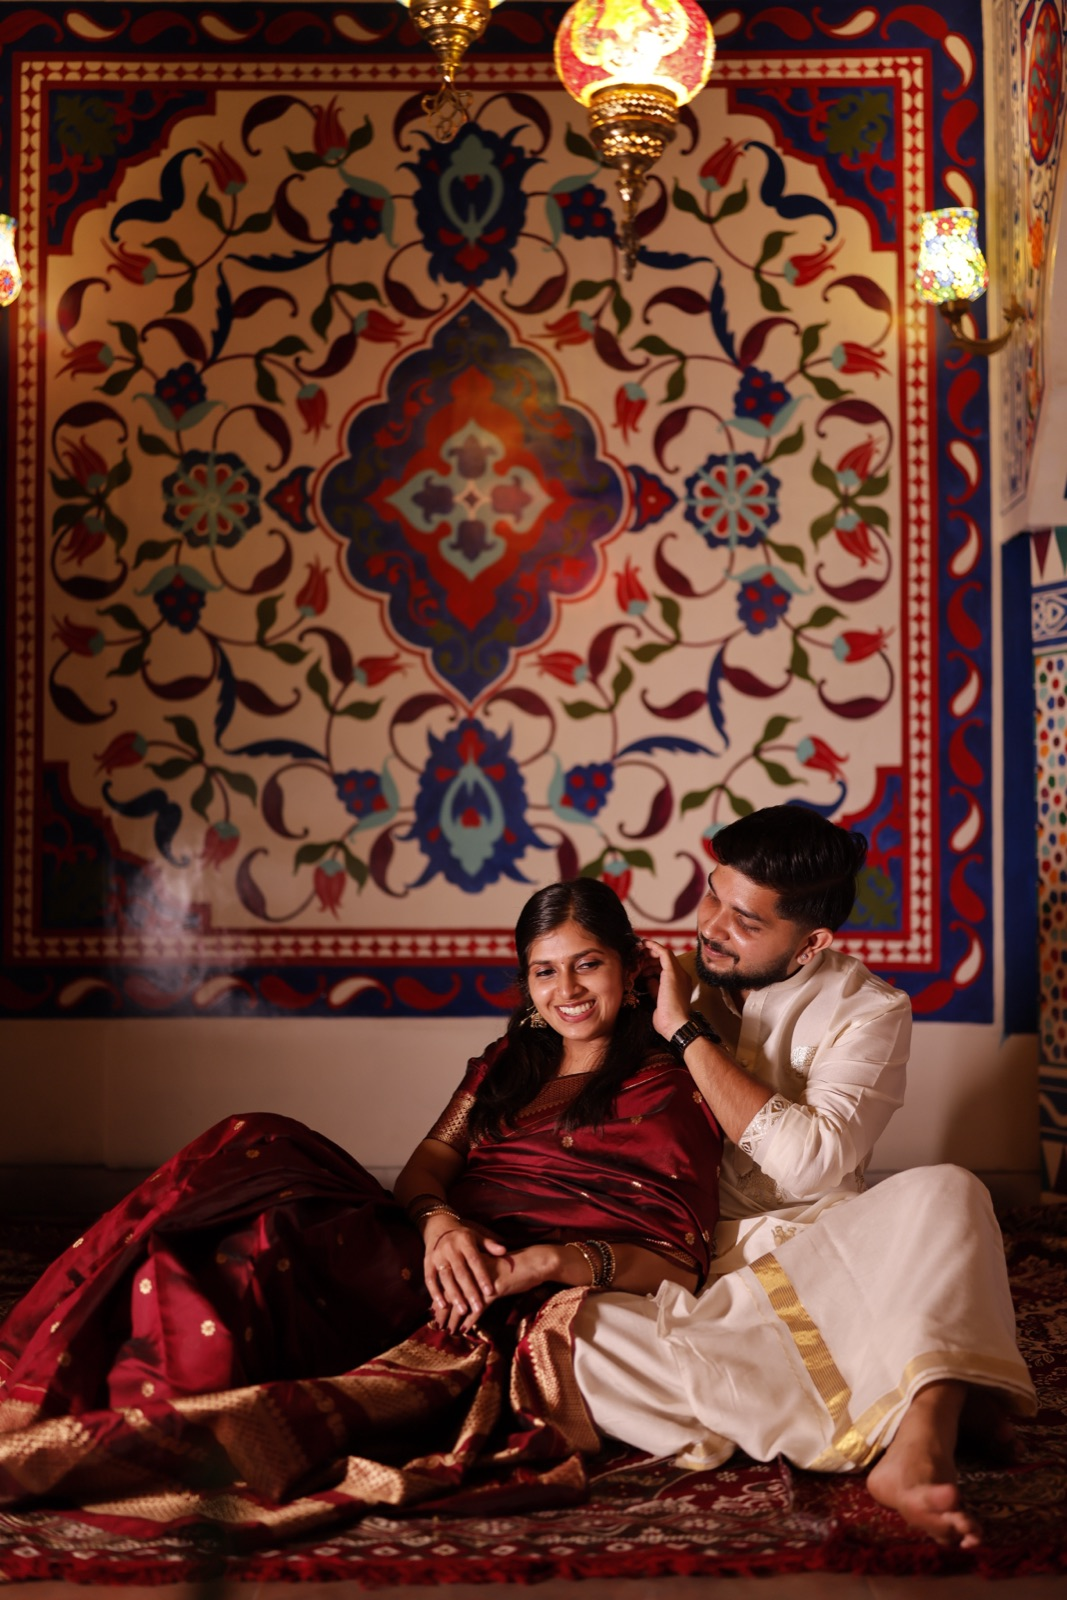
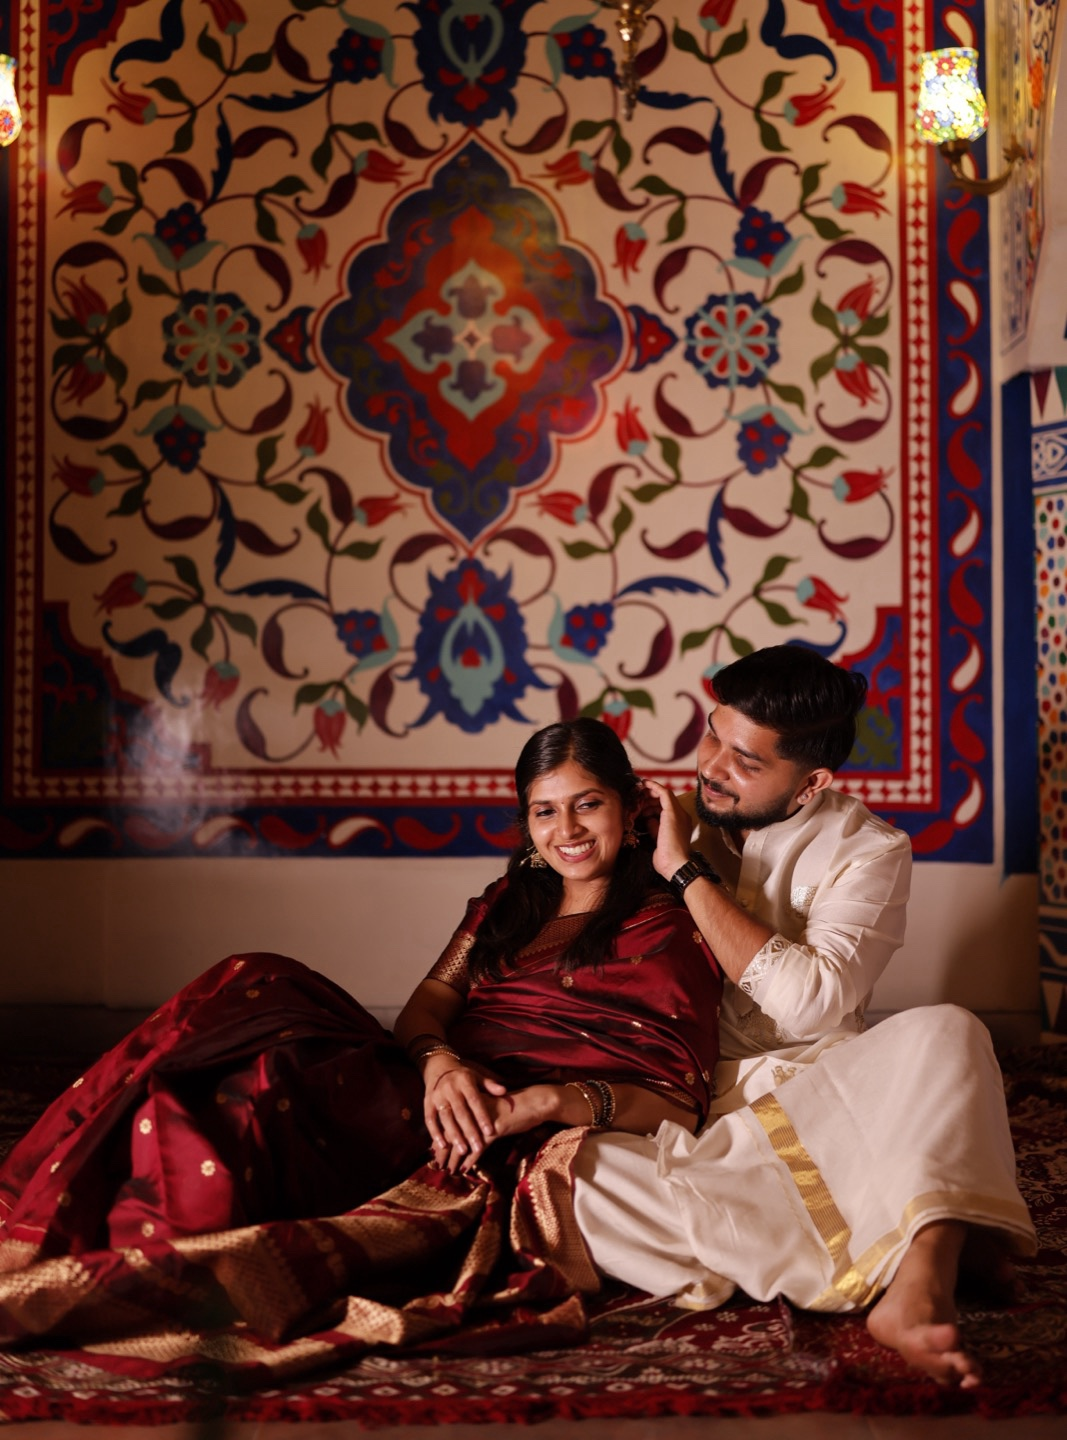
Polish Vasudevan–Athira invite: crop gallery photos and add cinematic grade.

diff --git a/frontend/app/vasudevan-athira/page.tsx b/frontend/app/vasudevan-athira/page.tsx
@@ -100,19 +100,19 @@ const gallery = [
     src: "/vasudevan/web/04-lantern.jpg",
     alt: "Vasudevan and Athira under warm lantern light",
     width: 1067,
-    height: 1600,
+    height: 1440,
   },
   {
     src: "/vasudevan/web/06-close.jpg",
     alt: "Vasudevan and Athira in a close embrace",
     width: 1067,
-    height: 1600,
+    height: 1440,
   },
   {
     src: "/vasudevan/web/05-veena.jpg",
     alt: "Vasudevan and Athira with a veena and mirror",
     width: 1067,
-    height: 1600,
+    height: 1440,
   },
   {
     src: "/vasudevan/web/07-glow.jpg",
@@ -145,17 +145,40 @@ export default function VasudevanAthiraInvitation() {
         .va-fade-later { animation: va-fade-up 1.1s cubic-bezier(0.22, 1, 0.36, 1) 0.36s both; }
         .va-rise { animation: va-soft-rise 1.25s cubic-bezier(0.22, 1, 0.36, 1) 0.2s both; }
         .va-line { transform-origin: center; animation: va-line 1s ease 0.45s both; }
+        .va-grade-img {
+          filter: contrast(1.08) saturate(0.86) brightness(0.96);
+        }
+        .va-grade-layer {
+          pointer-events: none;
+          position: absolute;
+          inset: 0;
+          background:
+            radial-gradient(ellipse at 50% 42%, transparent 38%, rgba(18, 8, 12, 0.42) 100%),
+            linear-gradient(165deg, rgba(42, 78, 92, 0.22) 0%, transparent 42%, rgba(92, 36, 28, 0.28) 100%),
+            linear-gradient(0deg, rgba(196, 150, 90, 0.12), rgba(26, 12, 16, 0.08));
+          mix-blend-mode: soft-light;
+        }
+        .va-grade-layer::after {
+          content: "";
+          position: absolute;
+          inset: 0;
+          background: linear-gradient(180deg, rgba(26, 12, 16, 0.12) 0%, transparent 28%, transparent 72%, rgba(26, 12, 16, 0.18) 100%);
+          mix-blend-mode: multiply;
+        }
       `}</style>
 
       <article className="mx-auto min-h-screen max-w-[460px] overflow-hidden bg-[#f4ebe1] md:my-10 md:min-h-0 md:shadow-[0_30px_80px_rgba(26,12,16,0.45)]">
         <section className="relative">
-          <img
-            src="/vasudevan/web/02-pond.jpg"
-            alt="Vasudevan and Athira by the temple pond"
-            width={1067}
-            height={1600}
-            className="va-rise h-auto w-full"
-          />
+          <div className="va-rise relative">
+            <img
+              src="/vasudevan/web/02-pond.jpg"
+              alt="Vasudevan and Athira by the temple pond"
+              width={1067}
+              height={1600}
+              className="va-grade-img h-auto w-full"
+            />
+            <div className="va-grade-layer" aria-hidden />
+          </div>
           <div className="pointer-events-none absolute inset-x-0 top-0 h-44 bg-gradient-to-b from-[#1a0c10]/55 to-transparent" />
           <div className="pointer-events-none absolute inset-x-0 bottom-0 h-36 bg-gradient-to-t from-[#f4ebe1] to-transparent" />
 
@@ -235,15 +258,17 @@ export default function VasudevanAthiraInvitation() {
 
         <section className="mt-10 flex flex-col gap-1">
           {gallery.map((photo) => (
-            <img
-              key={photo.src}
-              src={photo.src}
-              alt={photo.alt}
-              width={photo.width}
-              height={photo.height}
-              loading="lazy"
-              className="h-auto w-full"
-            />
+            <div key={photo.src} className="relative">
+              <img
+                src={photo.src}
+                alt={photo.alt}
+                width={photo.width}
+                height={photo.height}
+                loading="lazy"
+                className="va-grade-img h-auto w-full"
+              />
+              <div className="va-grade-layer" aria-hidden />
+            </div>
           ))}
         </section>
 
@@ -256,6 +281,14 @@ export default function VasudevanAthiraInvitation() {
             is our greatest blessing.
           </p>
           <div className="mt-10 flex flex-col items-center gap-3 text-[11px] font-light uppercase tracking-[0.22em] text-[#9a7a55]">
+            <a
+              href="https://www.instagram.com/vijith_krishna_photography"
+              target="_blank"
+              rel="noopener noreferrer"
+              className="underline decoration-[#d7c4a8] underline-offset-4"
+            >
+              Vijith Krishna Photography
+            </a>
             <a
               href="https://invyto.in"
               target="_blank"
